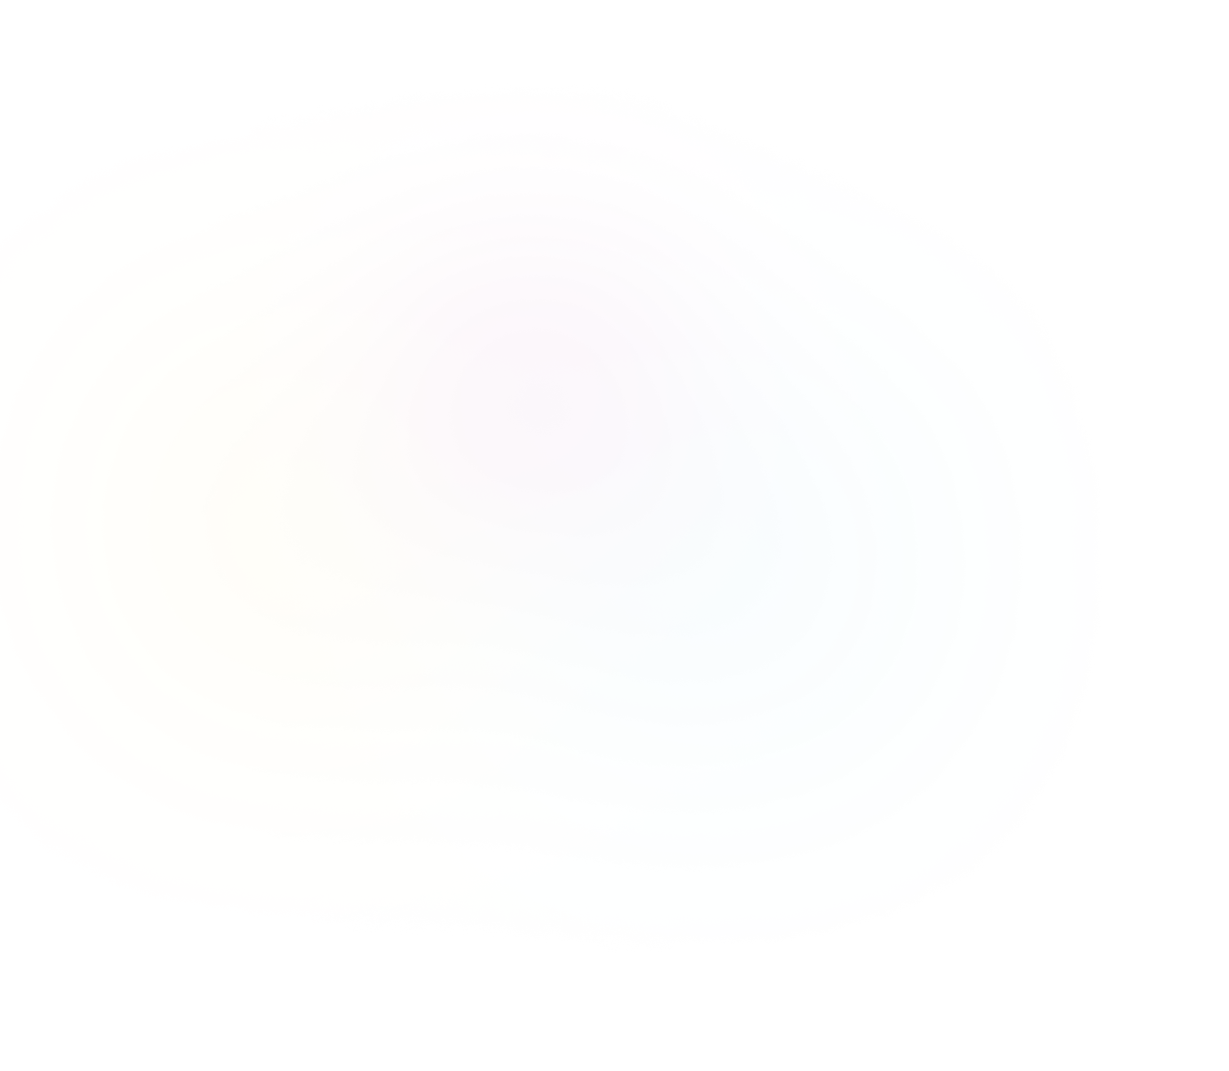
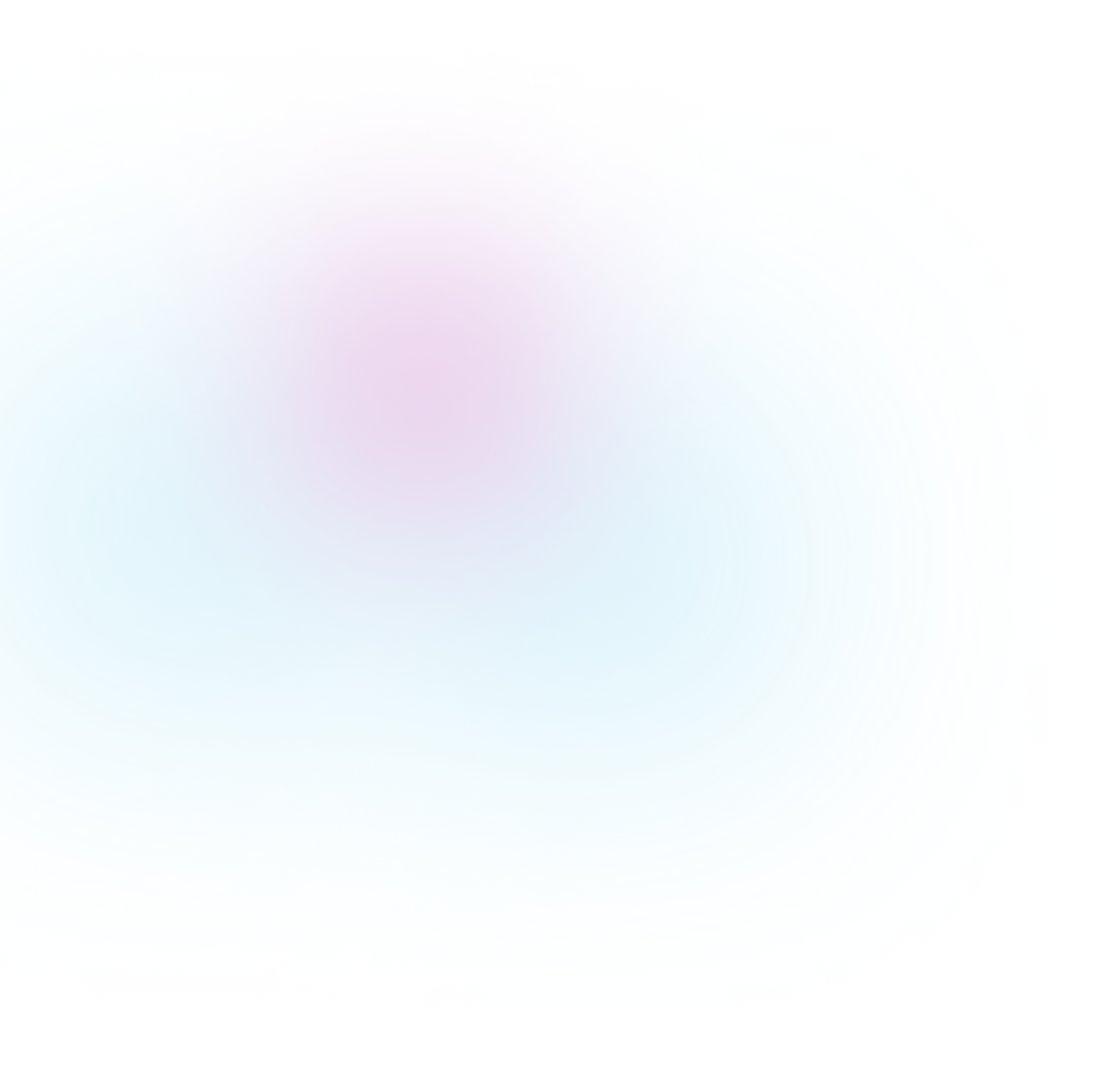
Skill swection added moblie improved

Changed region(s): [[0.2442, 0.2465, 0.4883, 0.493], [0.061, 0.4006, 0.3052, 0.5854], [0.4883, 0.5238, 0.5189, 0.5546]]

diff --git a/porfolio2/src/Components/styles/Skills.css b/porfolio2/src/Components/styles/Skills.css
@@ -1,9 +1,7 @@
 
 .skills {
-    margin-top: 600px;
     position: relative;
     height: auto;
-    margin-left: 100px;
 }
 
 .skill-box {
@@ -34,5 +32,15 @@
     font-weight: 300;
 }
 
+@media only screen and (max-width: 650px) {
+    .skill-box{
+        flex-direction: column;
+    }
+  } 
 
+  .skill{
+    width: 100%;
+    margin-top:80px;
+    padding-right: 5vw;
+}
 

diff --git a/porfolio2/src/Components/styles/Me.css b/porfolio2/src/Components/styles/Me.css
@@ -4,6 +4,9 @@
     font-size: 6.5vw;
     font-family: "Franchise-Free-Bold";
     text-align: left;
+    background-image: url('../../images/BlurryMebg.png');
+    background-repeat: no-repeat;
+    background-size: contain;
 }
 
 .Me-text p {

diff --git a/porfolio2/src/App.js b/porfolio2/src/App.js
@@ -20,6 +20,7 @@ function App() {
     <Navbar></Navbar>
     <Hello></Hello>
     <Me></Me>
+    <Skills></Skills>
     </>
   );
 }
